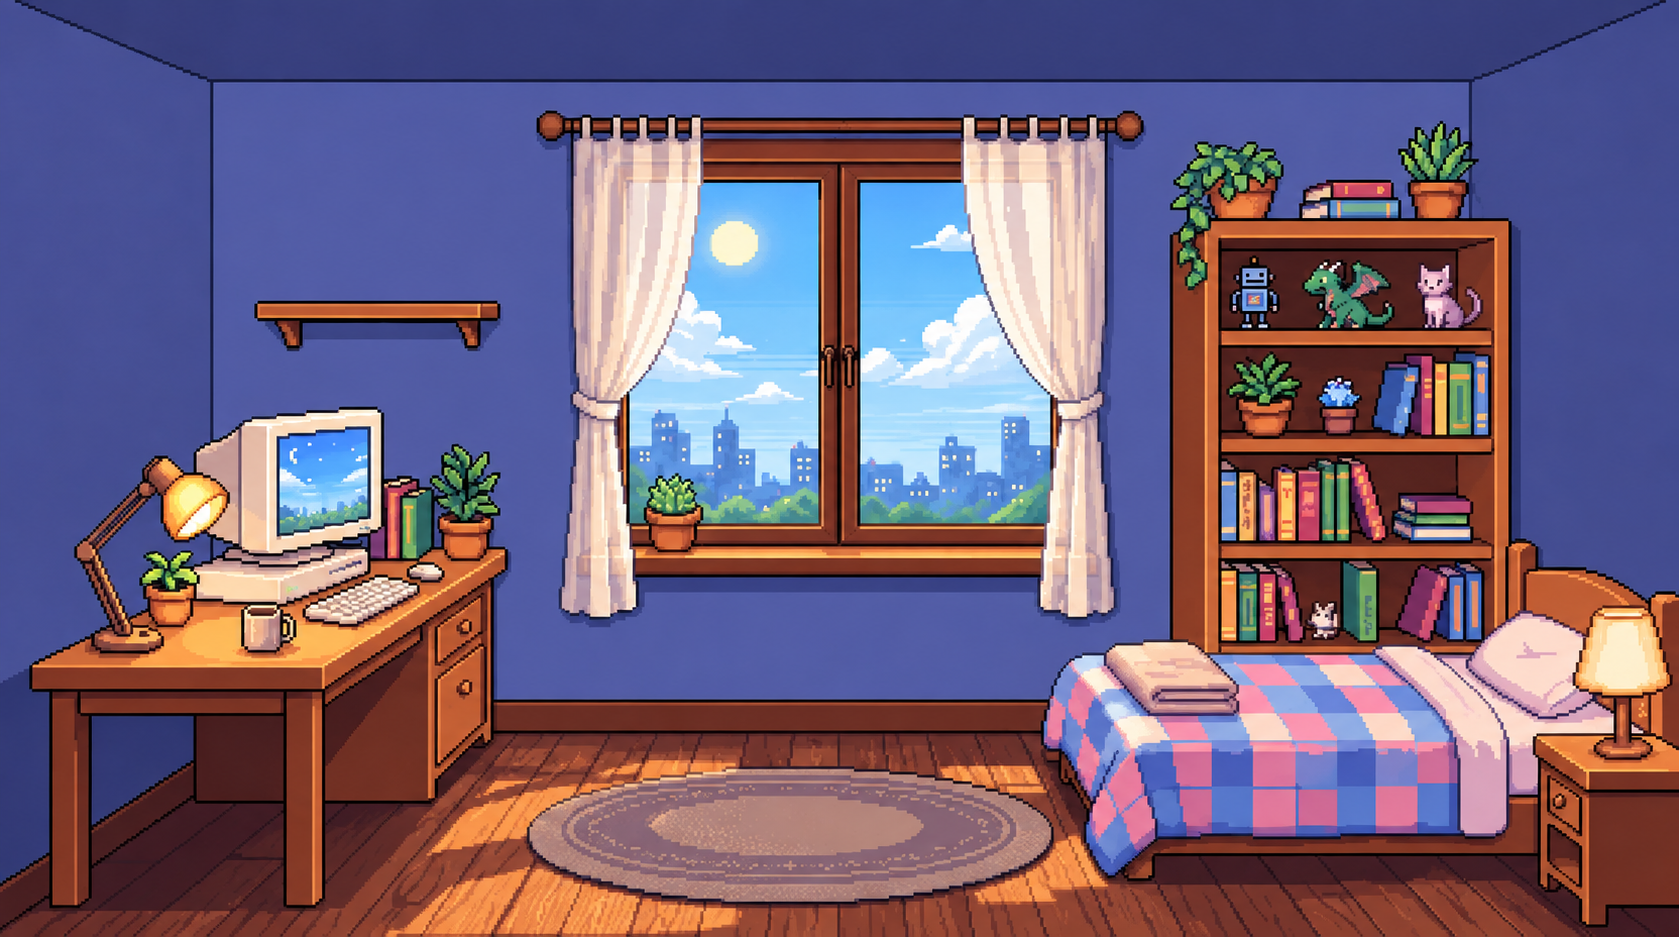
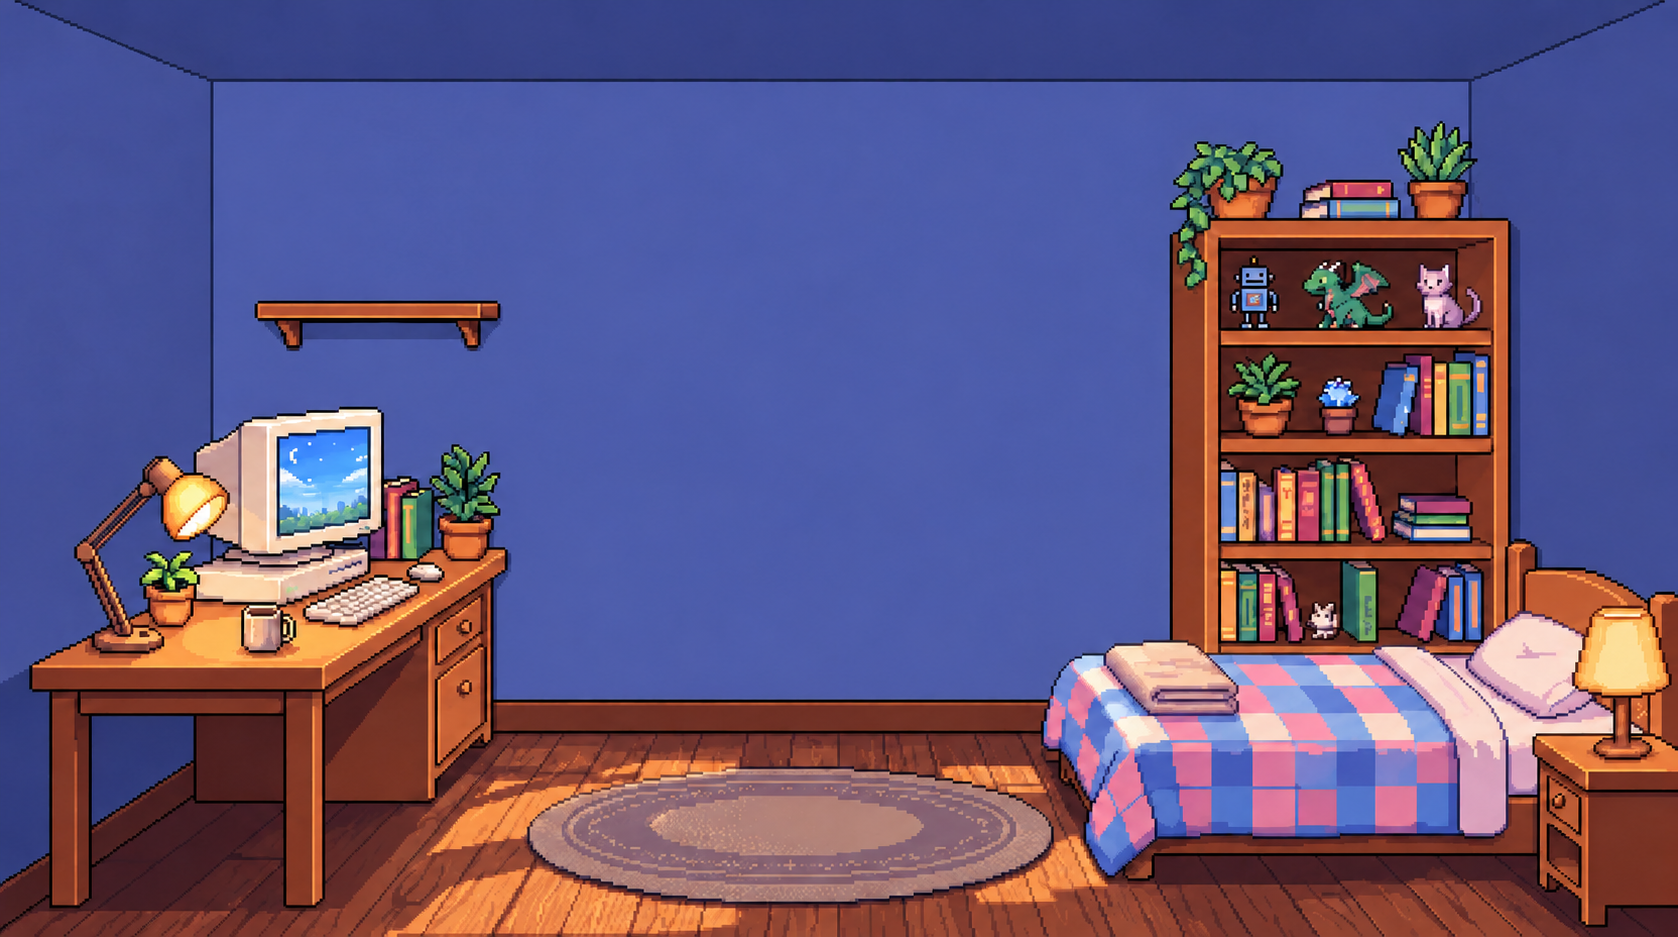
perbaikan untuk jendela siang dan malam

diff --git a/components/portfolio/room-stage.tsx b/components/portfolio/room-stage.tsx
@@ -3,7 +3,7 @@
 import { useEffect, useRef, useState } from 'react'
 import Image from 'next/image'
 import { motion, AnimatePresence } from 'framer-motion'
-import { HOTSPOTS, POSTERS, type Section, type Theme } from '@/lib/portfolio-data'
+import { HOTSPOTS, POSTERS, OVERLAYS,  type Section, type Theme } from '@/lib/portfolio-data'
 import { ChevronUp, ChevronDown, ChevronLeft, ChevronRight } from 'lucide-react'
 
 type Props = {
@@ -87,7 +87,7 @@ export function RoomStage({ theme, blurred, interactive, active, onHotspot, isRo
         >
           {/* Background Utama Night */}
           <Image
-            src="/images/room-night.png"
+            src="/images/room-night.png" 
             alt="Cozy pixel-art bedroom at night"
             draggable={false}
             onContextMenu={(e) => e.preventDefault()}
@@ -107,28 +107,116 @@ export function RoomStage({ theme, blurred, interactive, active, onHotspot, isRo
             className={`pixelated object-cover transition-opacity duration-1000 ${isNight ? 'opacity-0' : 'opacity-100'}`}
           />
 
-          {/* 1. Overlay Jendela Terbuka */}
           <AnimatePresence>
-            {isWindowOpen && (
+            {!isNight && !isWindowOpen && (
               <motion.div
-                key="open-window"
+                key="day-window-closed"
+                initial={{ opacity: 0 }}
+                animate={{ opacity: 1 }}
+                exit={{ opacity: 0 }}
+                transition={{ duration: 1 }}
+                className="group absolute z-10 drop-shadow-none"
+                style={{ 
+                  left: `${OVERLAYS.window.left}%`, 
+                  top: `${OVERLAYS.window.top}%`, 
+                  width: `${OVERLAYS.window.width}%` 
+                }}
+              >
+                <div className="relative h-full w-full transition-transform duration-300 group-hover:scale-[1.01]">
+                  <img
+                    src="/images/day-window.png" // Path gambar jendela tertutup siang lu (sesuaikan namanya)
+                    alt="Closed Day Window"
+                    className="pixelated block h-auto w-full"
+                    draggable={false}
+                  />
+                  <div className="pointer-events-none absolute inset-0 opacity-0 transition-opacity duration-300 group-hover:opacity-100" 
+                      style={{ boxShadow: 'inset 0 0 20px rgba(255, 255, 255, 0.1)' }} 
+                  />
+                </div>
+              </motion.div>
+            )}
+
+            {/* 2. JENDELA TERBUKA - SIANG */}
+            {!isNight && isWindowOpen && (
+              <motion.div
+                key="day-window-open"
                 initial={{ opacity: 0 }}
                 animate={{ opacity: 1 }}
                 exit={{ opacity: 0 }}
                 transition={{ duration: 0.3, ease: 'easeInOut' }}
-                className="absolute inset-0 pointer-events-none z-10 translate-x-[8px] translate-y-[8px]"
+                className="absolute z-10 pointer-events-none"
+                style={{ 
+                  left: `${OVERLAYS.window.left}%`, 
+                  top: `${OVERLAYS.window.top}%`, 
+                  width: `${OVERLAYS.window.width}%` 
+                }}
               >
-                <Image
-                  src="/images/jendela.PNG"
-                  alt="Open Window Overlay"
-                  fill
-                  sizes="100vw"
-                  className={`pixelated object-cover transition-all duration-1000 ${
-                    isNight ? 'brightness-[0.45] contrast-125 saturate-50' : 'brightness-100'
-                  }`}
-                  style={{ transform: 'scaleX(0.97)', transformOrigin: 'center' }}
+                <img
+                  src="/images/day-window-open.png" // Path gambar jendela terbuka siang lu
+                  alt="Open Day Window"
+                  className="pixelated w-full h-auto block"
                   draggable={false}
                 />
+              </motion.div>
+            )}
+            {/* 2. JENDELA TERBUKA - MALAM */}
+            {isNight && isWindowOpen && (
+              <motion.div
+                key="night-window-open"
+                initial={{ opacity: 0 }}
+                animate={{ opacity: 1 }}
+                exit={{ opacity: 0 }}
+                transition={{ duration: 0.3, ease: 'easeInOut' }}
+                className="absolute z-10 pointer-events-none"
+                style={{ 
+                  left: `${OVERLAYS.windowNight.left}%`, 
+                  top: `${OVERLAYS.windowNight.top}%`, 
+                  width: `${OVERLAYS.windowNight.width}%` 
+                }}
+              >
+                <img
+                  src="/images/night-window-open.png" // Path khusus gambar jendela terbuka malam
+                  alt="Open Night Window"
+                  className="pixelated w-full h-auto block"
+                  style={{ 
+                    filter: 'brightness(1.0) saturate(1.0) contrast(1)', 
+                    WebkitFilter: 'brightness(0.99) saturate(1.0) contrast(1)',
+                  }}
+                  draggable={false}
+                />
+              </motion.div>
+            )}
+
+            {/* 3. JENDELA TERTUTUP - MALAM (Lengkap dengan efek hover poster) */}
+            {isNight && !isWindowOpen && (
+              <motion.div
+                key="night-window-closed"
+                initial={{ opacity: 0 }}
+                animate={{ opacity: 1 }}
+                exit={{ opacity: 0 }}
+                transition={{ duration: 1 }}
+                className="group absolute z-10 drop-shadow-none"
+                style={{ 
+                  left: `${OVERLAYS.windowNight.left}%`, 
+                  top: `${OVERLAYS.windowNight.top}%`, 
+                  width: `${OVERLAYS.windowNight.width}%` 
+                }}
+              >
+                <div className="relative h-full w-full transition-transform duration-300 group-hover:scale-[1.01]">
+                  <img
+                    src="/images/night-window.png" // Path gambar jendela tertutup malam
+                    alt="Closed Night Window"
+                    className="pixelated block h-auto w-full"
+                    style={{ 
+                      filter: 'brightness(1.0) saturate(1.0) contrast(1)', 
+                      WebkitFilter: 'brightness(0.99) saturate(1.0) contrast(1)',
+                    }}
+                    draggable={false}
+                  />
+                  <div className="pointer-events-none absolute inset-0 opacity-0 transition-opacity duration-300 group-hover:opacity-100" 
+                      style={{ boxShadow: 'inset 0 0 20px rgba(255, 214, 130, 0.1)' }} 
+                  />
+                </div>
               </motion.div>
             )}
           </AnimatePresence>
@@ -142,14 +230,17 @@ export function RoomStage({ theme, blurred, interactive, active, onHotspot, isRo
                 animate={{ opacity: 1 }}
                 exit={{ opacity: 0 }}
                 transition={{ duration: 0.2 }}
-                className="absolute inset-0 pointer-events-none z-11 translate-x-[37px] translate-y-[16px]"
+                className="absolute z-11 pointer-events-none"
+                style={{ 
+                  left: `${OVERLAYS.deskLamp.left}%`, 
+                  top: `${OVERLAYS.deskLamp.top}%`, 
+                  width: `${OVERLAYS.deskLamp.width}%` 
+                }}
               >
-                <Image
-                  src="/images/lampu-belajar.PNG"
+                <img
+                  src="/images/lampu-belajar-crop.PNG"
                   alt="Desk Lamp Off Overlay"
-                  fill
-                  sizes="100vw"
-                  className={`pixelated object-cover transition-all duration-1000 ${
+                  className={`pixelated w-full h-auto block transition-all duration-1000 ${
                     isNight ? 'brightness-[0.45] contrast-125 saturate-50' : 'brightness-100'
                   }`}
                   draggable={false}
@@ -159,7 +250,7 @@ export function RoomStage({ theme, blurred, interactive, active, onHotspot, isRo
           </AnimatePresence>
 
           {/* 3. Overlay Lampu Tidur Kasur Mati */}
-          <AnimatePresence>
+         <AnimatePresence>
             {!isBedlampOn && (
               <motion.div
                 key="bed-lamp-off"
@@ -167,14 +258,17 @@ export function RoomStage({ theme, blurred, interactive, active, onHotspot, isRo
                 animate={{ opacity: 1 }}
                 exit={{ opacity: 0 }}
                 transition={{ duration: 0.2 }}
-                className="absolute inset-0 pointer-events-none z-11"
+                className="absolute z-11 pointer-events-none"
+                style={{ 
+                  left: `${OVERLAYS.bedLamp.left}%`, 
+                  top: `${OVERLAYS.bedLamp.top}%`, 
+                  width: `${OVERLAYS.bedLamp.width}%` 
+                }}
               >
-                <Image
-                  src="/images/lampu-tidur.PNG"
+                <img
+                  src="/images/lampu-tidur-crop.PNG"
                   alt="Bed Lamp Off Overlay"
-                  fill
-                  sizes="100vw"
-                  className={`pixelated object-cover transition-all duration-1000 ${
+                  className={`pixelated w-full h-auto block transition-all duration-1000 ${
                     isNight ? 'brightness-[0.45] contrast-125 saturate-50' : 'brightness-100'
                   }`}
                   draggable={false}
@@ -182,16 +276,18 @@ export function RoomStage({ theme, blurred, interactive, active, onHotspot, isRo
               </motion.div>
             )}
           </AnimatePresence>
+          
+          
 
           {/* Hotspot Area Klik Jendela */}
           <div
             onClick={() => {
-              if (isNight) return
+              // Malam sekarang dibolehkan buka/tutup jendela juga!
               setIsWindowOpen((prev) => !prev)
             }}
-            className={`absolute z-30 ${isNight ? 'cursor-default' : 'cursor-pointer'}`}
+            className="absolute z-30 cursor-pointer"
             style={{ top: '22%', left: '37%', width: '26%', height: '42%' }}
-            title={isNight ? "Jendela tidak bisa dibuka di malam hari" : "Klik untuk buka/tutup jendela"}
+            title="Klik untuk buka/tutup jendela"
           />
 
           {/* Hotspot Area Klik Lampu Meja Komputer */}

diff --git a/components/portfolio/avatar-guide.tsx b/components/portfolio/avatar-guide.tsx
@@ -92,7 +92,7 @@ export function AvatarGuide({
   const walkAvatarSrc = isDay ? '/images/avatar-walk-day.gif' : '/images/avatar-walk.gif'
   const tiredAvatarSrc = isDay ? '/images/avatar-tired-day.gif' : '/images/avatar-tired.gif'
   // 💡 Definisikan source untuk gif rebahan bosan/ngantuk (sementara pakai satu file dulu atau sesuaikan kalau nanti ada versi day)
-  const boredAvatarSrc = '/images/avatar-bored.gif' 
+  const boredAvatarSrc = isDay ? '/images/avatar-bored-day.png' : '/images/avatar-bored.gif' 
   const idleAvatarSrc = isDay ? '/images/avatar-day.png' : '/images/avatar.png'
 
   const t = TRANSLATIONS[lang]

diff --git a/lib/portfolio-data.ts b/lib/portfolio-data.ts
@@ -74,6 +74,13 @@ export const POSTERS: Poster[] = [
   { id: 'city', src: '/images/poster-city.png', alt: 'Pixel art synthwave city poster', left: 91, top: 17, width: 8.5, aspect: '4 / 3', tilt: 2 },
 ]
 
+export const OVERLAYS = {
+  window: { left: 33, top: 12, width: 33.5 }, // Sesuaikan angka ini nanti
+  deskLamp: { left: 5, top: 42, width: 12 },    // Sesuaikan angka ini nanti
+  bedLamp: { left: 88, top: 58, width: 7 },     // Sesuaikan angka ini nanti
+  windowNight: { left: 33, top: 12, width: 33.5 },
+}
+
 export const PROFILE = {
   name: 'Indrawansyah',
   location: 'Indonesia',
